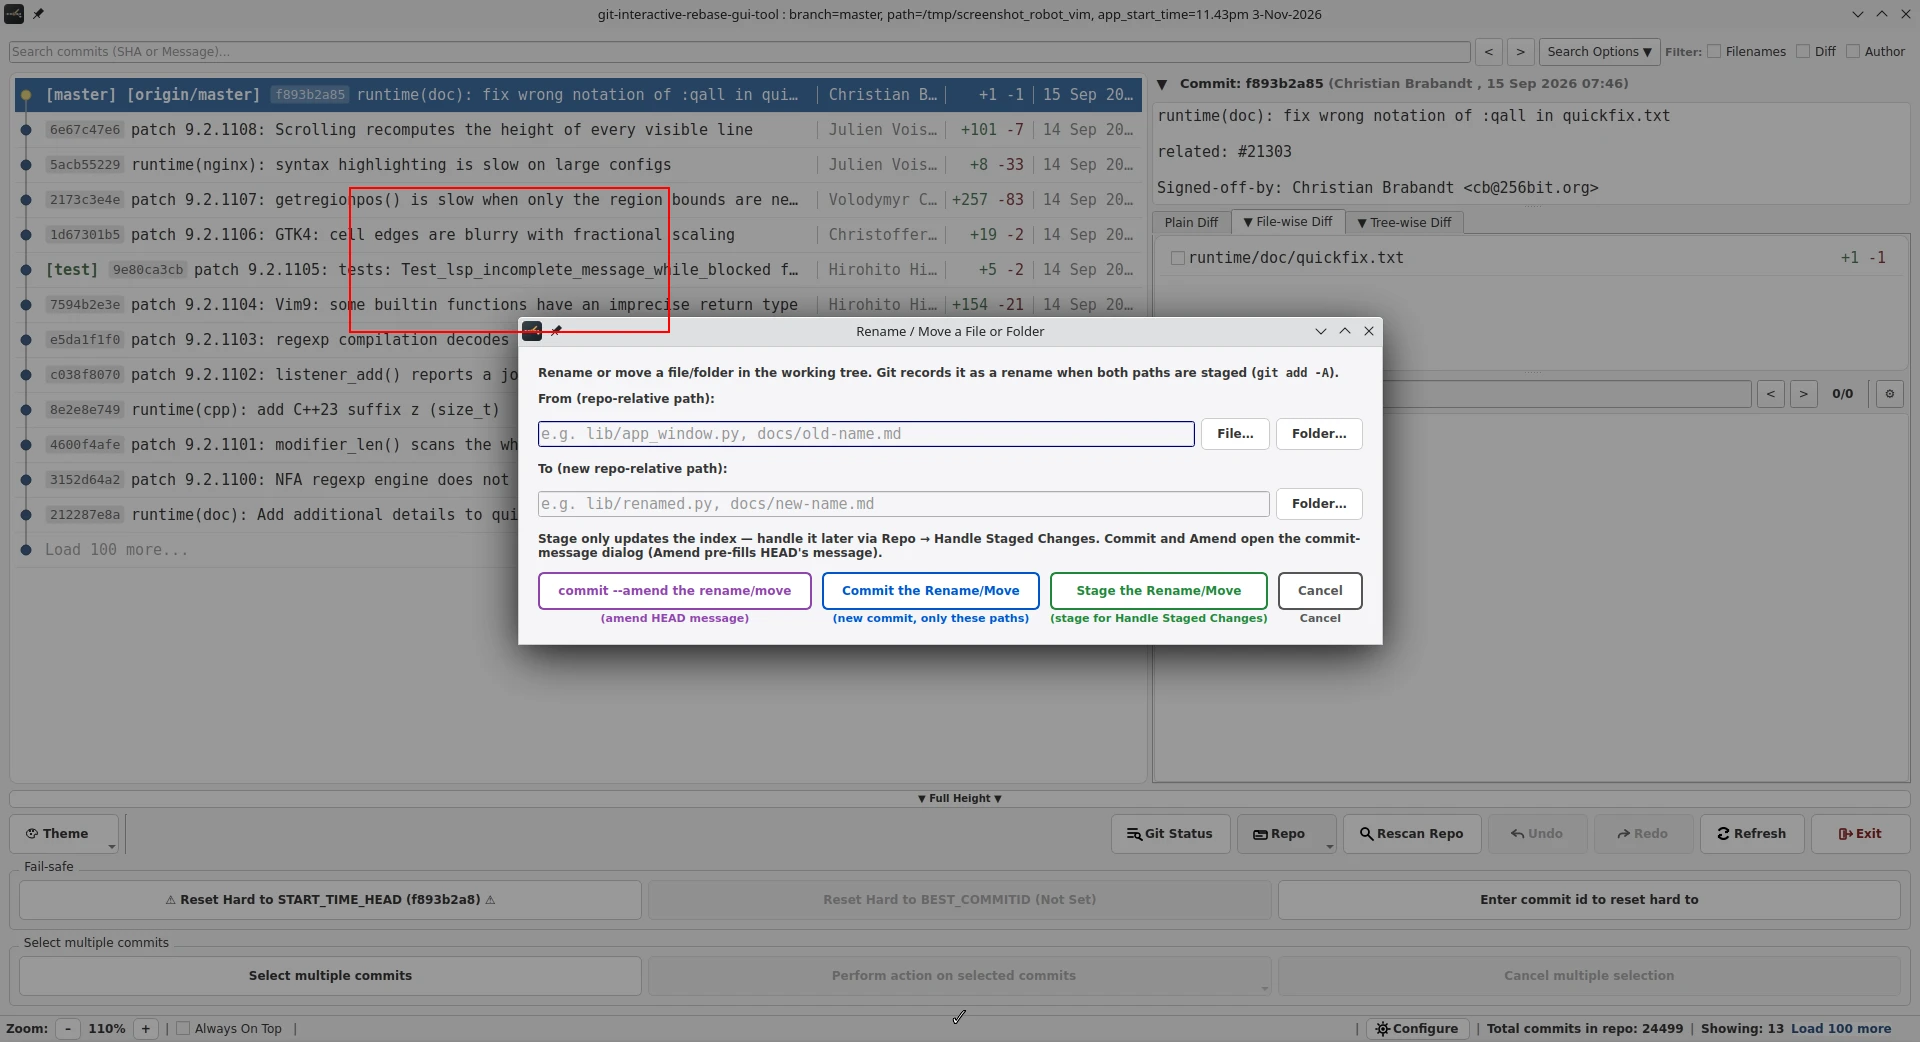
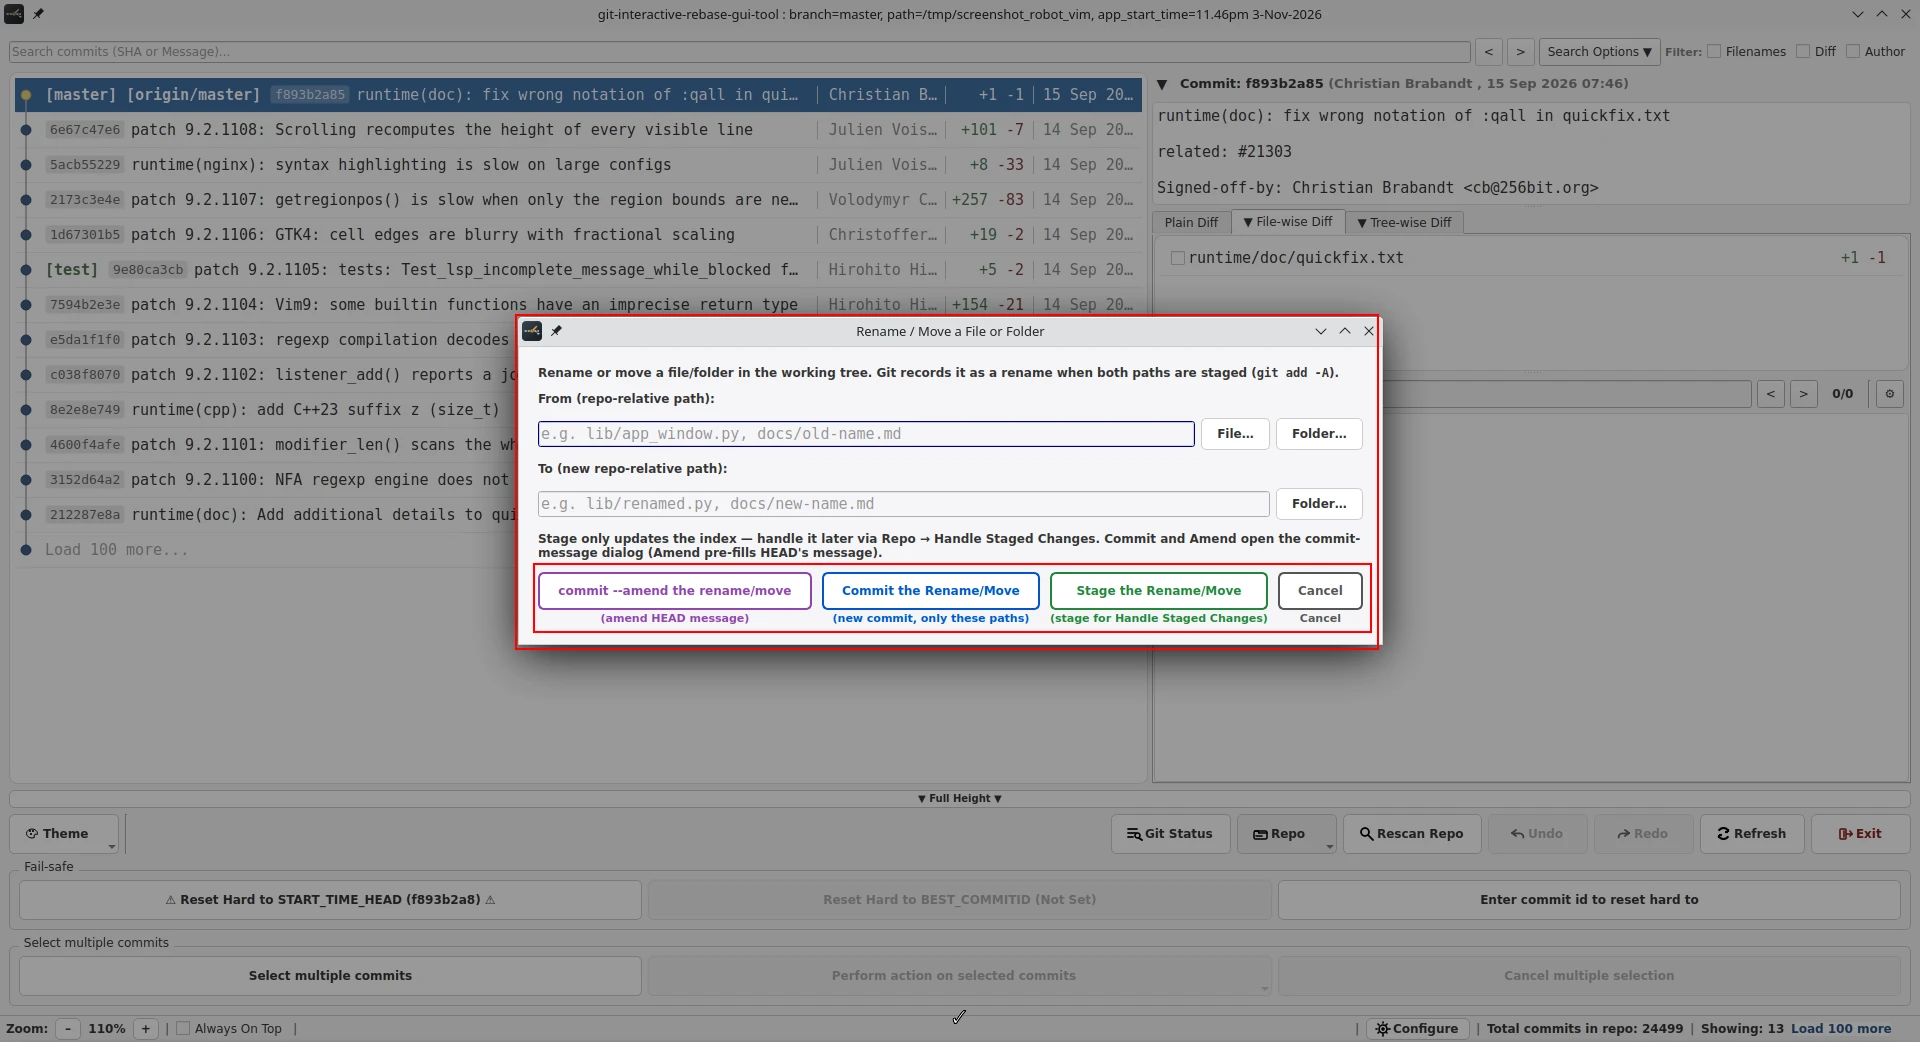
capture: submodule-manager.webp, rename-move.webp

Changed region(s): [[0.25, 0.5221, 0.7188, 0.6449], [0.1875, 0.2764, 0.7188, 0.3378], [0.1875, 0.1536, 0.3438, 0.1843]]

diff --git a/scenes/rename-move.py b/scenes/rename-move.py
@@ -10,7 +10,7 @@ sys.path.insert(0, str(Path(__file__).resolve().parents[1] / "lib"))
 from capture_lib import Tool, capture, repo, image_new, _sh_ok
 BOXES = [
     {"rect": (533, 563, 1371, 632)},
-    {"rect": (515, 314, 1378, 649)},
+    {"rect": (512, 312, 1388, 649)},
     ]
 
 def main():
